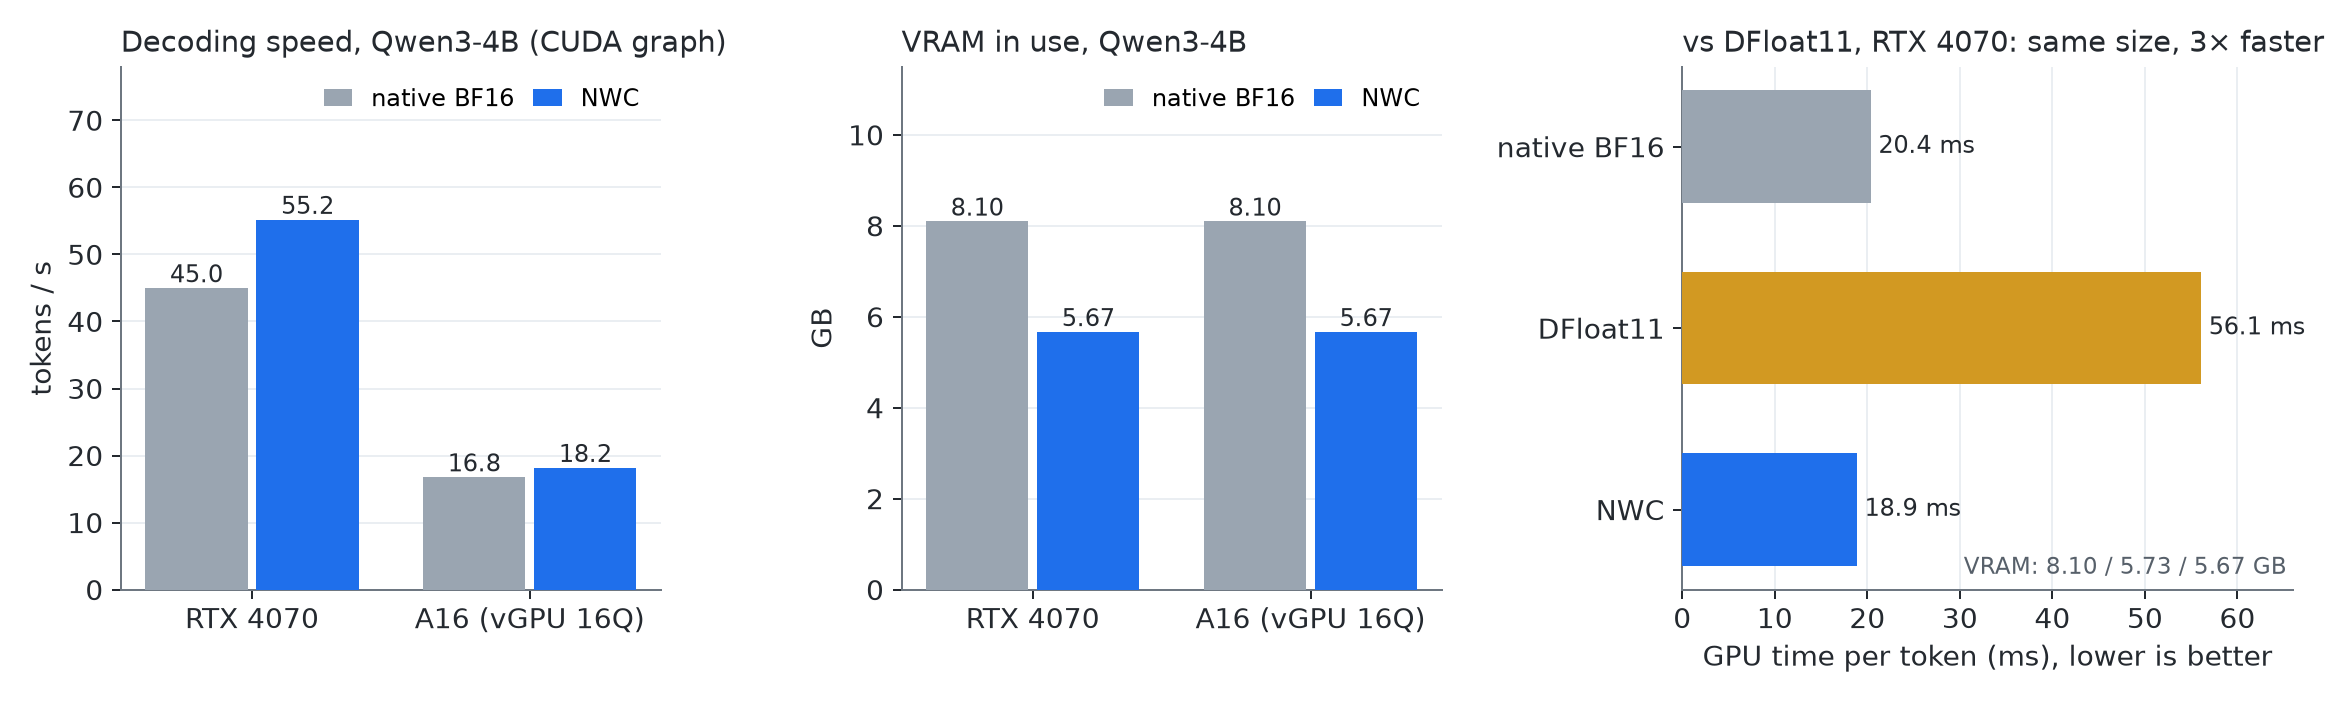
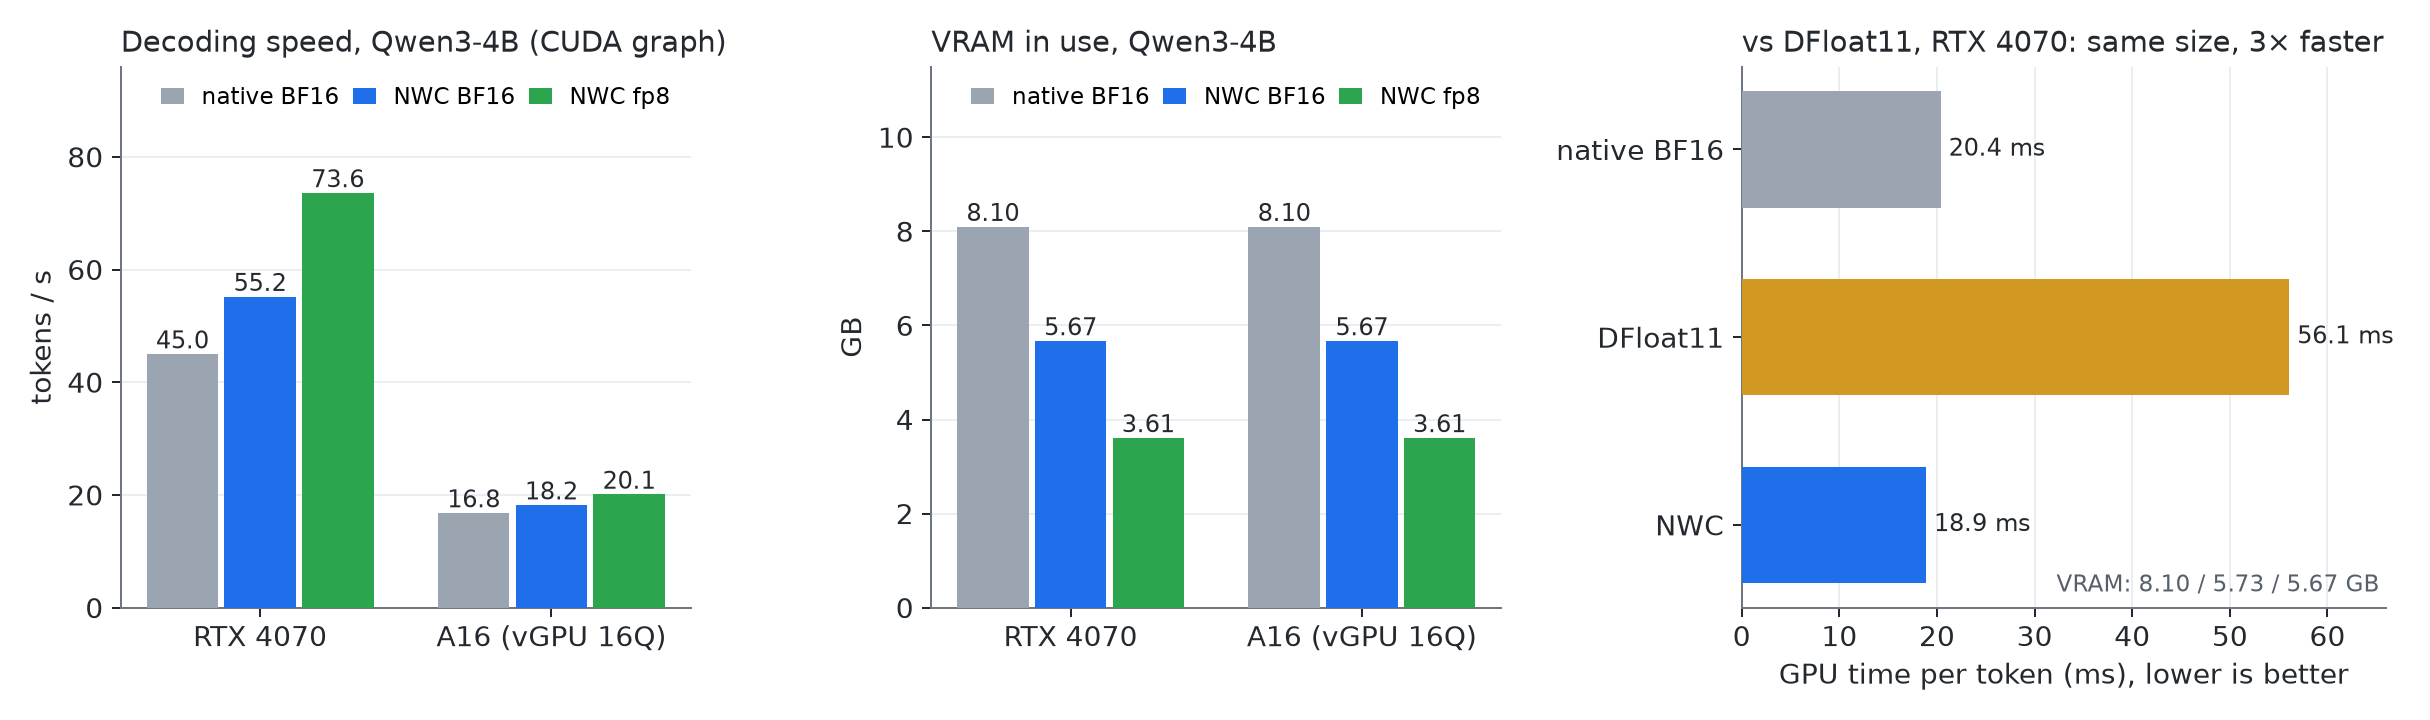
docs: README leads with fp8 as well (headline, chart, quickstart, results table, badge)

diff --git a/scripts/plot_results.py b/scripts/plot_results.py
@@ -7,11 +7,11 @@ import matplotlib.pyplot as plt
 
 ROOT = os.path.dirname(os.path.dirname(os.path.abspath(__file__)))
 OUT = os.path.join(ROOT, "docs", "img", "headline.png")
-NATIVE, NWC, DF11 = "#9aa5b1", "#1f6feb", "#d29922"
+NATIVE, NWC, FP8, DF11 = "#9aa5b1", "#1f6feb", "#2da44e", "#d29922"
 
 plt.rcParams.update({"font.family": "DejaVu Sans", "font.size": 11, "axes.spines.top": False, "axes.spines.right": False,
                      "axes.edgecolor": "#6e7781", "axes.labelcolor": "#24292f", "xtick.color": "#24292f", "ytick.color": "#24292f"})
-fig, axes = plt.subplots(1, 3, figsize=(13, 3.9), dpi=180, gridspec_kw={"width_ratios": [1.15, 1.15, 1.3]})
+fig, axes = plt.subplots(1, 3, figsize=(13.5, 4.0), dpi=180, gridspec_kw={"width_ratios": [1.15, 1.15, 1.3]})
 
 
 def bars(ax, groups, labels, colors, ylabel, title, fmt, ylim=None):
@@ -26,13 +26,14 @@ def bars(ax, groups, labels, colors, ylabel, title, fmt, ylim=None):
     ax.set_ylabel(ylabel); ax.set_title(title, fontsize=11.5, loc="left", color="#24292f")
     ax.grid(axis="y", color="#eaeef2", zorder=0)
     if ylim: ax.set_ylim(*ylim)
-    ax.legend(frameon=False, fontsize=9.5, loc="upper right", ncol=2, columnspacing=0.8, handlelength=1.2)
+    ax.legend(frameon=False, fontsize=9, loc="upper right", ncol=3, columnspacing=0.6, handlelength=1.0)
 
 
 # Qwen3-4B, greedy decoding as a CUDA graph (docs/results.md, section 1)
-bars(axes[0], [("RTX 4070", (45.0, 55.2)), ("A16 (vGPU 16Q)", (16.8, 18.2))], ["native BF16", "NWC"], [NATIVE, NWC],
-     "tokens / s", "Decoding speed, Qwen3-4B (CUDA graph)", lambda v: f"{v:.1f}", (0, 78))
-bars(axes[1], [("RTX 4070", (8.10, 5.67)), ("A16 (vGPU 16Q)", (8.10, 5.67))], ["native BF16", "NWC"], [NATIVE, NWC],
+# NWC fp8 = weight-only fp8 e4m3 with the fp8 values stored lossless (docs/results.md, section 8)
+bars(axes[0], [("RTX 4070", (45.0, 55.2, 73.6)), ("A16 (vGPU 16Q)", (16.8, 18.2, 20.1))], ["native BF16", "NWC BF16", "NWC fp8"], [NATIVE, NWC, FP8],
+     "tokens / s", "Decoding speed, Qwen3-4B (CUDA graph)", lambda v: f"{v:.1f}", (0, 96))
+bars(axes[1], [("RTX 4070", (8.10, 5.67, 3.61)), ("A16 (vGPU 16Q)", (8.10, 5.67, 3.61))], ["native BF16", "NWC BF16", "NWC fp8"], [NATIVE, NWC, FP8],
      "GB", "VRAM in use, Qwen3-4B", lambda v: f"{v:.2f}", (0, 11.5))
 # RTX 4070, GPU time per token, HF eager, torch.profiler (docs/results.md, section 2)
 ax = axes[2]

diff --git a/README.md b/README.md
@@ -3,25 +3,28 @@
 # NWC · Neural Weight Compression
 
 **Lossless BF16 weights, 31 % smaller, decoded inside the CUDA matvec.**
-Faster than cuBLAS on the uncompressed weights. Bit-identical weights, no quantization.
+Faster than cuBLAS on the uncompressed weights, bit-identical, no quantization.
+And for fp8 models: the fp8 values stored lossless at 0.87 of their size, at native fp8 speed.
 
 [![PyPI](https://img.shields.io/pypi/v/neural-weight-compression?label=pypi&color=1f6feb)](https://pypi.org/project/neural-weight-compression/)
 [![downloads](https://img.shields.io/pypi/dm/neural-weight-compression?color=1f6feb)](https://pypi.org/project/neural-weight-compression/)
 [![ci](https://github.com/parda21/NWC/actions/workflows/ci.yml/badge.svg)](https://github.com/parda21/NWC/actions/workflows/ci.yml)
 [![model](https://img.shields.io/badge/%F0%9F%A4%97%20checkpoint-Qwen3--4B--NWC-ffcc4d)](https://huggingface.co/Parda21/Qwen3-4B-NWC)
+[![fp8 model](https://img.shields.io/badge/%F0%9F%A4%97%20fp8-Qwen3--4B--NWC--fp8-2da44e)](https://huggingface.co/Parda21/Qwen3-4B-NWC-fp8)
 [![license](https://img.shields.io/badge/license-Apache%202.0-green)](LICENSE)
 
 [Quickstart](#quickstart) · [Results](#results) · [How it works](#how-it-works) · [Hardware](#hardware) · [Roadmap](#roadmap) · [FAQ](#faq) · [For agents](#for-agents)
 
 </div>
 
-![Qwen3-4B: tokens/s, VRAM, and GPU time per token vs DFloat11](docs/img/headline.png)
+![Qwen3-4B: tokens/s and VRAM for native BF16, NWC BF16 and NWC fp8; GPU time per token vs DFloat11](docs/img/headline.png)
 
 Token generation is memory-bound: every weight is read once per token. NWC stores the weights entropy-coded
 in VRAM and decodes them in registers, inside the matrix-vector kernel, so the GPU reads 69 % of the bytes and
 no decompressed weight ever touches memory. On an RTX 4070 that makes Qwen3-4B **22 % faster** than native BF16
 while using **2.4 GB less VRAM**; on a bandwidth-starved NVIDIA A16 it is still faster. Qwen2.5-7B in full BF16
-fits a 12 GB card.
+fits a 12 GB card. The same decoder runs **weight-only fp8** models with the fp8 values stored lossless: Qwen3-4B in
+**3.61 GB** at **73.6 tokens/s** on the 4070, as fast as a native fp8 matvec and 13 % smaller than fp8.
 
 ## News
 
@@ -44,7 +47,8 @@ Needs an NVIDIA GPU (Turing or newer, Ampere or newer measured), a driver for CU
 pip install neural-weight-compression transformers accelerate
 python -m nwc.doctor                                          # GPU, driver, library, kernel round trip: all ok?
 python -m nwc.demo Parda21/Qwen3-0.6B-NWC --load --graph      # 1 minute, 0.8 GB download: does everything run?
-python -m nwc.demo Parda21/Qwen3-4B-NWC --load --graph        # 5.6 GB: the model the numbers above are from
+python -m nwc.demo Parda21/Qwen3-4B-NWC --load --graph        # 5.6 GB: lossless BF16, the model the numbers above are from
+python -m nwc.demo Parda21/Qwen3-4B-NWC-fp8 --load --graph    # 3.5 GB: weight-only fp8, fp8 values lossless
 python -m nwc.demo Qwen/Qwen3-4B --native --graph             # the same model uncompressed, for comparison
 ```
 
@@ -91,6 +95,22 @@ by `torch.profiler` ([scripts/compare_df11.py](scripts/compare_df11.py)):
 
 Same size, opposite speed: DFloat11's decoded weights pass through memory twice, NWC reads only the compressed
 bytes. Both land at the entropy of the mantissa; the choice of coder moves the size by 1–2 %.
+
+**fp8.** `convert(model, elem="fp8")` quantizes to weight-only fp8 e4m3 (per-channel scale, activations BF16, the
+recipe vLLM & co. serve) and stores the fp8 values lossless. Qwen3-4B, CUDA graph, greedy; the baseline is the
+library's own fp8 weight-only matvec, which reads one byte per weight at the memory bandwidth
+([docs/results.md](docs/results.md), section 8):
+
+| | RTX 4070 | NVIDIA A16 |
+|---|---|---|
+| VRAM, native BF16 → NWC fp8 | 8.10 GB → **3.61 GB** | 8.10 GB → **3.61 GB** |
+| tokens/s, native BF16 → NWC fp8 | 45 → **73.6** | 16.8 → **20.1** (21.7 with `layout=1`) |
+| weight kernels vs native fp8 matvec | 0.85–1.09× (parity) | 0.70× (0.80× with `layout=1`) |
+| size vs fp8 | **0.87** | **0.87** |
+| perplexity WikiText-2, BF16 → fp8 | 18.03 → 18.15 (the fp8 quantization; NWC changes nothing) | |
+
+int8 was measured and not built: its symbol alphabet is flat, the prefix code would save 5 %, an ideal coder 13 %
+(section 7 there).
 
 ## How it works
 
